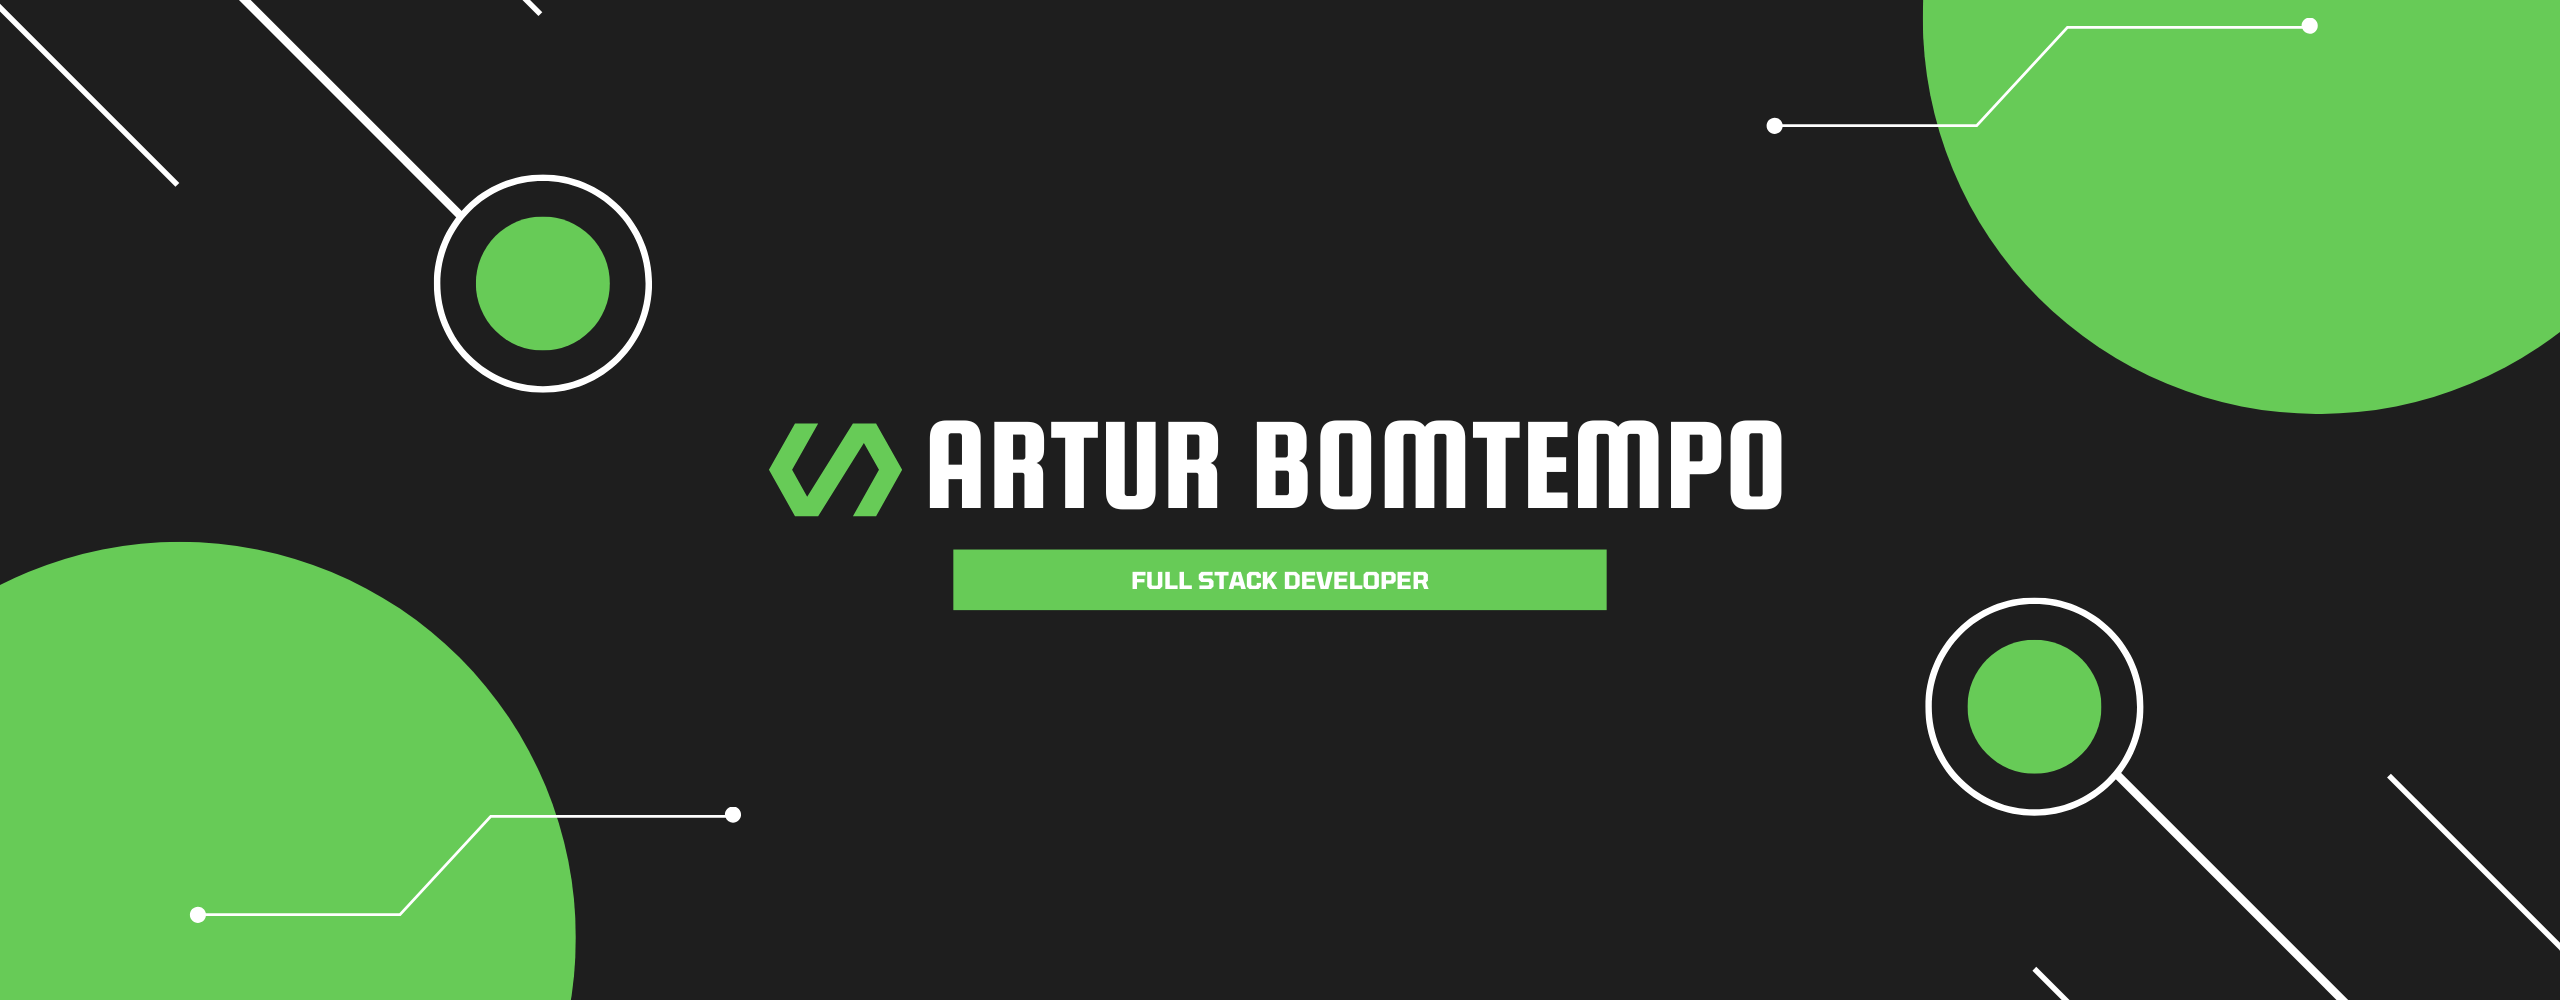
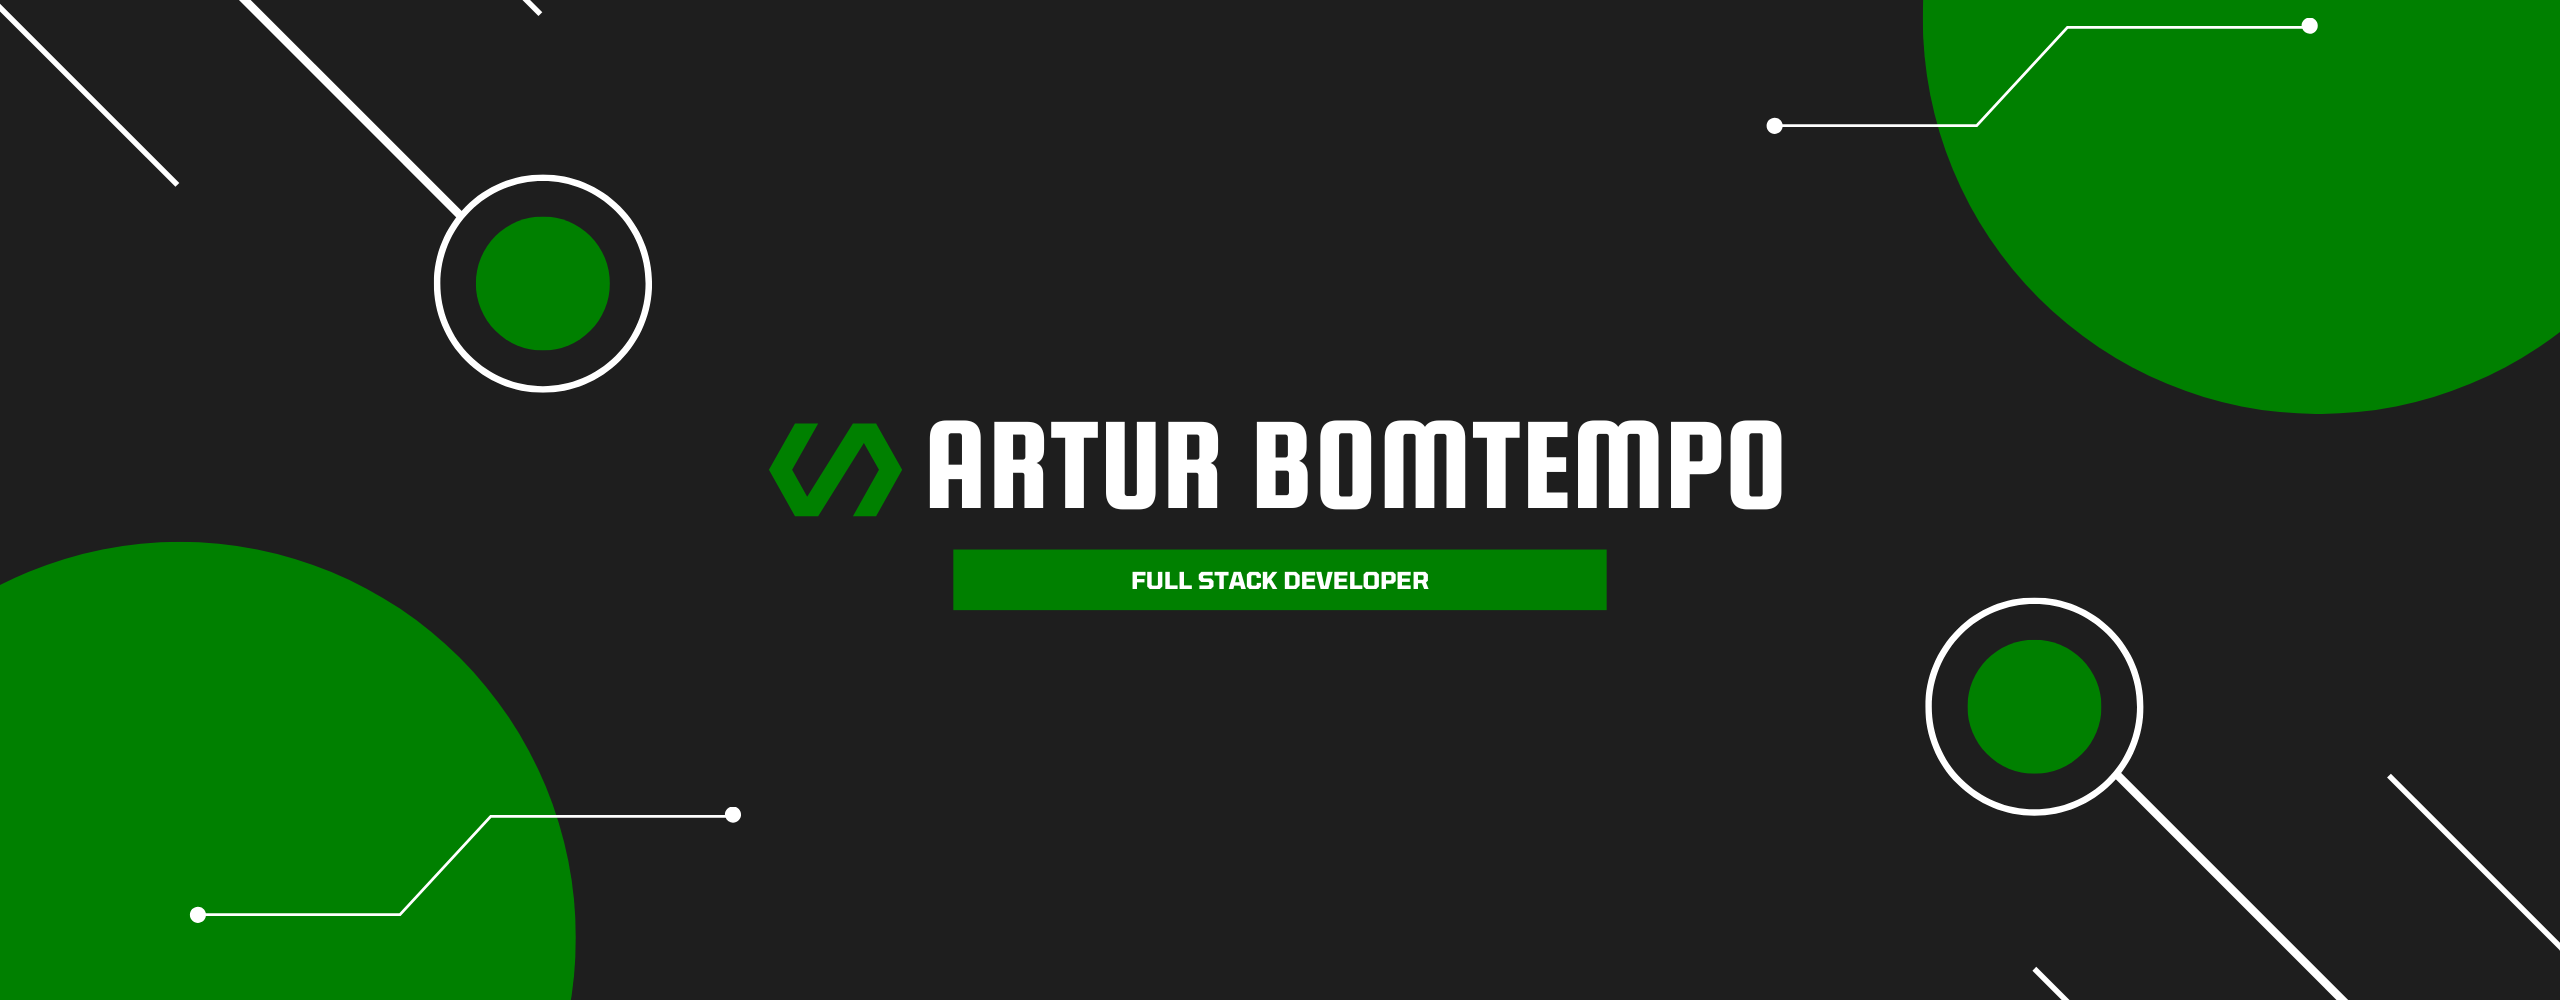
fix: update GitHub activity graph and footer color for improved visibility

diff --git a/README.md b/README.md
@@ -68,7 +68,7 @@ Turning ideas into reality through software has always been my goal. My journey 
 
 <br>
 
-[![Artur Bomtempo's github activity graph](https://github-readme-activity-graph.vercel.app/graph?username=arturbomtempo-dev&bg_color=0d1117&color=67cb57&line=67cb57&point=67cb57&area=true&area_color=67cb57&hide_border=true)](https://github.com/arturbomtempo-dev/)
+[![Artur Bomtempo's github activity graph](https://github-readme-activity-graph.vercel.app/graph?username=arturbomtempo-dev&bg_color=0d1117&color=008000&line=008000&point=008000&area=true&area_color=008000&hide_border=true)](https://github.com/arturbomtempo-dev/)
 
 <p align="center">
     <img src="https://github-profile-trophy.vercel.app/?username=arturbomtempo-dev&theme=matrix&bg_color=0d1117&row=1&no-bg=true&column=3&color=fff&margin-w=15&margin-h=15" />
@@ -79,4 +79,4 @@ Turning ideas into reality through software has always been my goal. My journey 
 <p align="center"><img align="center" src="https://profile-counter.glitch.me/arturbomtempo-dev/count.svg"/></p> 
 <br></div>
 
-<img width=100% src="https://capsule-render.vercel.app/api?type=waving&color=67cb57&height=120&section=footer"/>
+<img width=100% src="https://capsule-render.vercel.app/api?type=waving&color=008000&height=120&section=footer"/>
